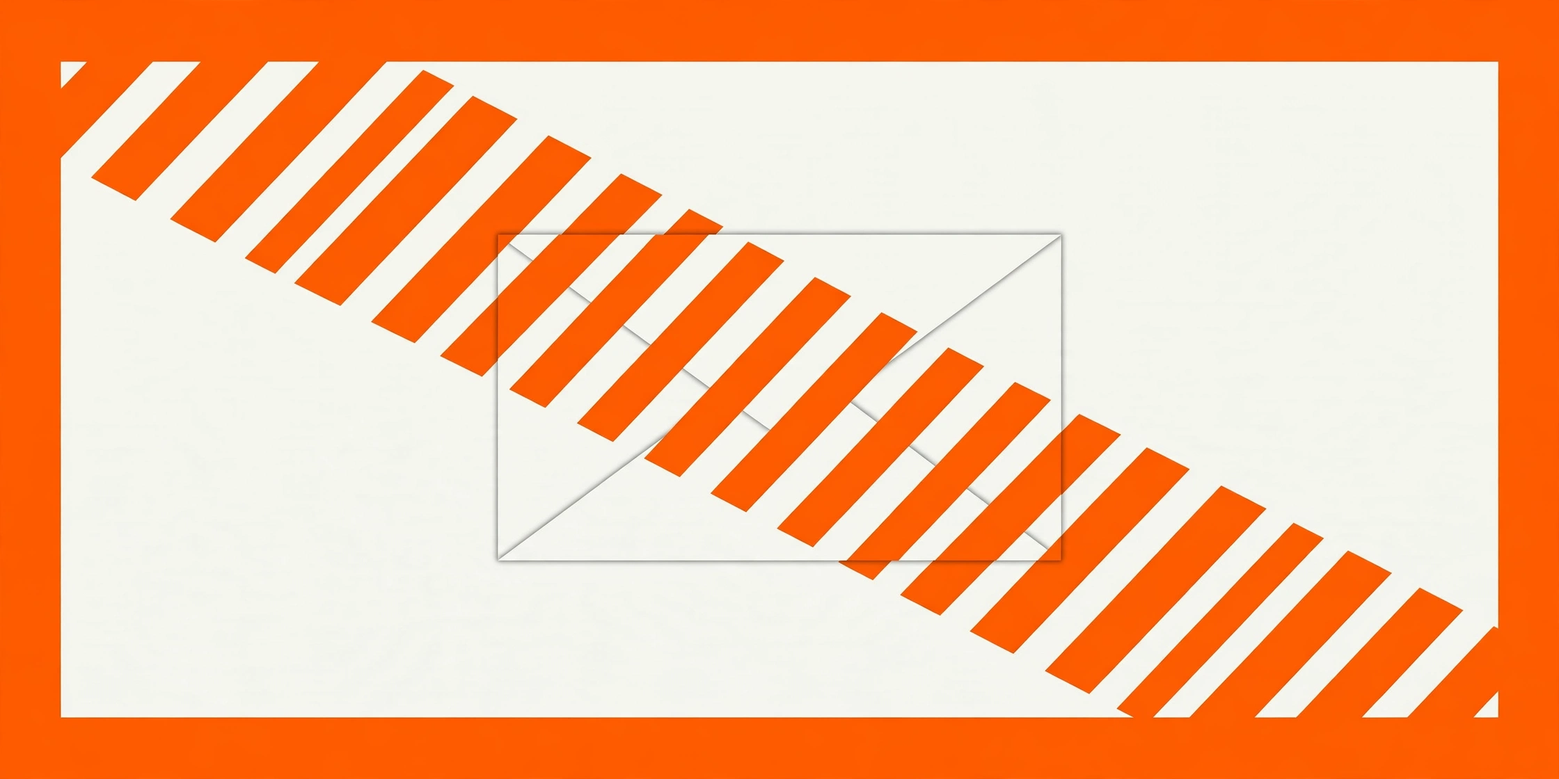
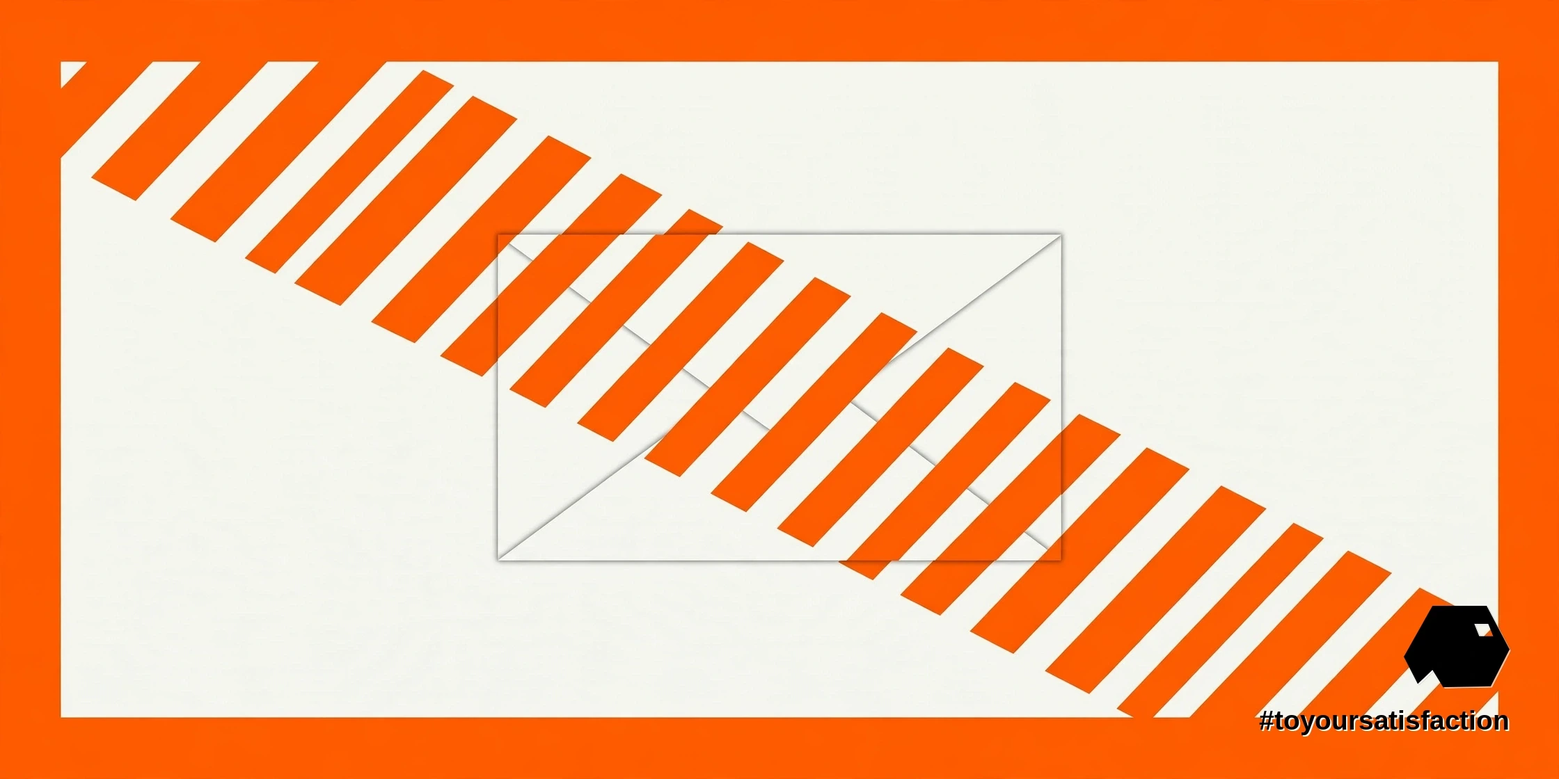
Magazine edition — batch 3

Changed region(s): [[0.8125, 0.7812, 0.9688, 0.9375]]

diff --git a/articles/the-document-is-untrusted-content/index.html b/articles/the-document-is-untrusted-content/index.html
@@ -5,42 +5,82 @@
 <meta name="viewport" content="width=device-width, initial-scale=1">
 <meta http-equiv="Content-Security-Policy" content="default-src 'self'; script-src 'self' 'unsafe-inline'; style-src 'self' 'unsafe-inline'; img-src 'self' data:; connect-src 'self' https://api.mymemory.translated.net; object-src 'none'; base-uri 'self'">
 <title>The Document Is Untrusted Content — Ovia Inc</title>
-<meta name="description" content="At Guidewire Connections 2026, OpenAI's Viyat Bhalodia set out the claims-agent security model (reported October 30–31, 2026): customer-supplied documents are untrusted content, prompt injection will sometimes succeed, and the answer is layered deterministic controls — sandbox, least privilege, expiring credentials, second-agent review.">
+<meta name="description" content="At Guidewire Connections 2026, OpenAI's Viyat Bhalodia set out the claims-agent security model: customer-supplied documents are untrusted content, prompt injection will sometimes succeed, and the answer is layered deterministic controls.">
 <meta property="og:type" content="article">
 <meta property="og:title" content="The Document Is Untrusted Content">
-<meta property="og:description" content="At Guidewire Connections 2026, OpenAI's Viyat Bhalodia set out the claims-agent security model (reported October 30–31, 2026): customer-supplied documents are untrusted content, prompt injection will sometimes succeed, and the answer is layered deterministic controls — sandbox, least privilege, expiring credentials, second-agent review.">
+<meta property="og:description" content="At Guidewire Connections 2026, OpenAI's Viyat Bhalodia set out the claims-agent security model: customer-supplied documents are untrusted content, prompt injection will sometimes succeed, and the answer is layered deterministic controls.">
 <meta property="og:url" content="https://oviainc.github.io/ai-services/articles/the-document-is-untrusted-content/">
 <meta property="og:image" content="https://oviainc.github.io/ai-services/articles/the-document-is-untrusted-content/ovia-inc-the-document-is-untrusted-content-hero.webp">
 <meta name="twitter:card" content="summary_large_image">
 <style>
-  :root{--bg:#0A0E14;--accent:#2E9BD6;--text:#FFFFFF;--muted:#B9C4CE;}
+  :root{--bg:#0A0E14;--panel:#101823;--text:#FFFFFF;--muted:#B9C4CE;--line:#22303E;--accent:#F0742B;}
   *{box-sizing:border-box;margin:0;padding:0;}
-  body{background:var(--bg);color:var(--text);font-family:-apple-system,BlinkMacSystemFont,"Segoe UI",Roboto,Helvetica,Arial,sans-serif;line-height:1.65;}
-  main{max-width:760px;margin:0 auto;padding:32px 20px 48px;}
-  .langbar{display:flex;justify-content:flex-end;align-items:center;gap:10px;margin-bottom:18px;}
-  .langbar label{color:var(--muted);font-size:.85rem;letter-spacing:.08em;text-transform:uppercase;}
-  .langbar select{background:#101823;color:var(--text);border:1px solid #1E2A36;border-radius:8px;padding:6px 10px;font-size:.95rem;max-width:60vw;}
-  .kicker{color:var(--accent);font-size:.85rem;letter-spacing:.18em;text-transform:uppercase;margin-bottom:14px;}
-  h1{font-size:2rem;line-height:1.25;margin-bottom:20px;font-weight:700;}
-  h2{font-size:1.3rem;line-height:1.35;margin:28px 0 12px;font-weight:700;color:var(--accent);}
-  img.hero{width:100%;height:auto;border-radius:10px;display:block;margin-bottom:28px;}
-  p{margin-bottom:16px;color:var(--text);}
-  p.tags{color:var(--accent);font-size:.95rem;}
-  ul.refs{list-style:none;margin-bottom:16px;}
-  ul.refs li{margin-bottom:10px;color:var(--muted);font-size:.95rem;}
+  body{background:var(--bg);color:var(--text);font-family:Georgia,'Times New Roman',Times,serif;line-height:1.6;}
+  a{color:var(--accent);}
+  .sans{font-family:-apple-system,BlinkMacSystemFont,"Segoe UI",Roboto,Helvetica,Arial,sans-serif;}
+  /* masthead zone over the article background image */
+  .mastzone{position:relative;overflow:hidden;border-bottom:1px solid var(--line);}
+  .mast-bg{position:absolute;inset:0;background-size:cover;background-position:center;opacity:.22;}
+  .mast-shade{position:absolute;inset:0;background:linear-gradient(180deg,rgba(10,14,20,.52),rgba(10,14,20,.94));}
+  .mast-inner{position:relative;max-width:1180px;margin:0 auto;padding:24px 22px 42px;}
+  .masthead{display:flex;align-items:center;gap:16px;flex-wrap:wrap;}
+  .masthead a.logo{display:block;line-height:0;}
+  .masthead img.logo{height:46px;width:auto;display:block;}
+  .wordmark{font-family:-apple-system,BlinkMacSystemFont,"Segoe UI",Roboto,Helvetica,Arial,sans-serif;letter-spacing:.34em;font-size:13px;text-transform:uppercase;color:var(--text);}
+  .langbar{display:flex;align-items:center;gap:10px;margin-left:auto;}
+  .langbar label{color:var(--muted);font-size:.8rem;letter-spacing:.08em;text-transform:uppercase;font-family:-apple-system,BlinkMacSystemFont,"Segoe UI",Roboto,Helvetica,Arial,sans-serif;}
+  .langbar select{background:#101823;color:var(--text);border:1px solid var(--line);border-radius:8px;padding:6px 10px;font-size:.95rem;max-width:52vw;}
+  .kicker{color:var(--accent);font-size:.85rem;letter-spacing:.3em;text-transform:uppercase;margin:44px 0 16px;font-family:-apple-system,BlinkMacSystemFont,"Segoe UI",Roboto,Helvetica,Arial,sans-serif;}
+  h1.display{font-family:"Arial Narrow Bold","Franklin Gothic Medium",Impact,Haettenschweiler,"Helvetica Neue Condensed Bold",sans-serif;text-transform:uppercase;font-weight:700;font-size:clamp(2.5rem,6.4vw,4.7rem);line-height:.99;letter-spacing:.004em;max-width:1020px;}
+  .standfirst{font-size:clamp(1.12rem,2.3vw,1.42rem);font-style:italic;color:var(--muted);max-width:780px;line-height:1.5;margin-top:18px;}
+  .byline{font-family:-apple-system,BlinkMacSystemFont,"Segoe UI",Roboto,Helvetica,Arial,sans-serif;font-size:.74rem;letter-spacing:.2em;text-transform:uppercase;color:var(--muted);border-top:1px solid var(--line);margin-top:24px;padding-top:14px;}
+  /* hero */
+  .hero-zone{max-width:1180px;margin:34px auto 0;padding:0 22px;}
+  figure.hero img{width:100%;height:auto;display:block;border-radius:2px;}
+  figcaption{font-family:-apple-system,BlinkMacSystemFont,"Segoe UI",Roboto,Helvetica,Arial,sans-serif;font-size:.78rem;color:var(--muted);padding-top:8px;letter-spacing:.03em;}
+  /* body columns */
+  main{max-width:1180px;margin:0 auto;padding:6px 22px 30px;}
+  .cols{margin-top:30px;font-size:1.16rem;line-height:1.75;}
+  @media (min-width:1020px){.cols{column-count:2;column-gap:54px;}}
+  .cols p{margin:0 0 20px;}
+  .cols p.first::first-letter{font-family:"Arial Narrow Bold","Franklin Gothic Medium",Impact,sans-serif;font-size:5.4rem;line-height:.78;float:left;padding:.55rem .9rem 0 0;color:var(--accent);font-weight:700;}
+  h2.sec{font-family:-apple-system,BlinkMacSystemFont,"Segoe UI",Roboto,Helvetica,Arial,sans-serif;font-size:.88rem;letter-spacing:.26em;text-transform:uppercase;color:var(--accent);margin:36px 0 14px;border-top:2px solid var(--accent);padding-top:14px;break-after:avoid;}
+  h2.sec:first-child{margin-top:0;}
+  blockquote.pull{column-span:all;font-size:clamp(1.55rem,3.6vw,2.35rem);line-height:1.3;font-style:italic;text-align:center;color:var(--accent);margin:42px 0;padding:4px 12px;}
+  figure.body{margin:4px 0 22px;break-inside:avoid;}
+  figure.wide{column-span:all;margin:30px 0 34px;}
+  figure.body img,figure.wide img{width:100%;height:auto;display:block;border-radius:2px;}
+  .keybox{break-inside:avoid;background:var(--panel);border:1px solid var(--line);border-top:3px solid var(--accent);padding:18px 20px 10px;margin:0 0 24px;font-family:-apple-system,BlinkMacSystemFont,"Segoe UI",Roboto,Helvetica,Arial,sans-serif;}
+  .keybox h3{font-size:.78rem;letter-spacing:.24em;text-transform:uppercase;color:var(--accent);margin-bottom:10px;}
+  .keybox li{margin:0 0 9px 18px;font-size:.95rem;line-height:1.5;}
+  /* references + tags + footer */
+  .refs-sec{margin-top:44px;border-top:1px solid var(--line);padding-top:24px;}
+  .refs-sec h2{font-family:-apple-system,BlinkMacSystemFont,"Segoe UI",Roboto,Helvetica,Arial,sans-serif;font-size:.88rem;letter-spacing:.26em;text-transform:uppercase;color:var(--accent);margin-bottom:14px;}
+  ul.refs{list-style:none;}
+  ul.refs li{margin-bottom:10px;color:var(--muted);font-size:.95rem;font-family:-apple-system,BlinkMacSystemFont,"Segoe UI",Roboto,Helvetica,Arial,sans-serif;}
   ul.refs a{color:var(--accent);text-decoration:none;word-break:break-all;}
   ul.refs a:hover{text-decoration:underline;}
-  footer{border-top:1px solid #1E2A36;margin-top:36px;padding-top:20px;font-size:.95rem;color:var(--muted);}
+  p.tags{color:var(--accent);font-size:.95rem;margin-top:26px;font-family:-apple-system,BlinkMacSystemFont,"Segoe UI",Roboto,Helvetica,Arial,sans-serif;}
+  footer{border-top:1px solid var(--line);margin-top:38px;padding:22px 0 10px;font-size:.95rem;color:var(--muted);font-family:-apple-system,BlinkMacSystemFont,"Segoe UI",Roboto,Helvetica,Arial,sans-serif;}
+  footer .frow{display:flex;align-items:center;gap:14px;flex-wrap:wrap;}
+  footer img.flogo{height:30px;width:auto;display:block;}
   footer a{color:var(--accent);text-decoration:none;}
   footer a:hover{text-decoration:underline;}
-  @media (max-width:600px){h1{font-size:1.55rem;}main{padding:22px 16px 36px;}}
+  footer .ftag{color:var(--text);letter-spacing:.06em;}
+  @media (max-width:640px){.mast-inner{padding:18px 16px 30px;}main,.hero-zone{padding-left:16px;padding-right:16px;}h1.display{font-size:2.35rem;}.cols{font-size:1.08rem;}}
 </style>
 </head>
 <body>
-<main>
-<div class="langbar">
-          <label for="langPick" data-tr>Language</label>
-          <select id="langPick" aria-label="Choose your language">
+<header class="mastzone">
+  <div class="mast-bg" style="background-image:url('ovia-inc-the-document-is-untrusted-content-background.webp')"></div>
+  <div class="mast-shade"></div>
+  <div class="mast-inner">
+    <div class="masthead">
+      <a class="logo" href="../../" aria-label="Ovia Inc — home"><img class="logo" src="../../assets/ovia-inc-logo-white.webp" alt="Ovia Inc — logo"></a>
+      <span class="wordmark">Ovia Inc — Magazine</span>
+      <div class="langbar">
+        <label for="langPick" data-tr>Language</label>
+        <select id="langPick" aria-label="Choose your language">
             <option value="en">English</option>
             <option value="fr">Français</option>
             <option value="es">Español</option>
@@ -118,28 +158,77 @@
             <option value="lo">ລາວ</option>
             <option value="mn">Монгол</option>
           </select>
-        </div>
-  <p class="kicker" data-tr>Ovia Inc — Articles</p>
-  <h1 data-tr>The Document Is Untrusted Content</h1>
-  <img class="hero" src="ovia-inc-the-document-is-untrusted-content-hero.webp" alt="Ovia Inc — A plain bone-white envelope crossed by one bold diagonal band of hazard-orange stripes inside a heavy orange frame, in stark Swiss poster style">
-  <h2 data-tr>The session</h2>
-  <p data-tr>At Guidewire Connections 2026 in Las Vegas, Viyat Bhalodia — a member of technical staff at OpenAI who leads security work for agentic products — spoke with Ben Chang, a Guidewire engineering vice-president, about putting claims agents into production. The exchange was reported on October 30, 2026 by Insurance Innovation Reporter and summarised on October 31 by Pivot News. The framing case is ordinary and uncomfortable: a claims agent reads a police report, medical records or a repair estimate supplied by a customer, and somewhere inside the document sits a hidden instruction, written for the agent rather than for any human reader.</p>
-  <h2 data-tr>The lethal trifecta</h2>
-  <p data-tr>The session named the dangerous combination directly: sensitive data, untrusted content and external network access — a trio described as the lethal trifecta. Claims handling assembles all three by default. The files are sensitive by nature; the documents arrive from outside the company's control; and a useful agent needs to reach systems beyond its own sandbox to do the job. Any one element alone is manageable. Together, the three form the path an injected instruction needs: read the secret, obey the stranger, send the result somewhere. The closing assignment for attendees was an audit — find every agent in the building where the three already meet.</p>
-  <h2 data-tr>Design for the failure</h2>
-  <p data-tr>The premise underneath the controls deserves emphasis: assume prompt injection sometimes succeeds. Models are trained to resist injected instructions, and the resistance keeps improving — and the professional posture, as presented in the session, is to refuse to rest the whole defence on that single layer of software. A model that can be talked into an action must be surrounded by machinery that decides what actions exist at all. Security moves from persuading the model to behave, toward bounding what misbehaviour could accomplish on the worst day.</p>
-  <h2 data-tr>The layered controls</h2>
-  <p data-tr>The controls named are deterministic, and deliberately unglamorous. A sandbox limits which files an agent can open and which network destinations an agent can reach. Least privilege grants access to what the task needs and nothing beyond that access, with credentials that expire instead of the long-lived keys common in existing infrastructure. And an auto-review pattern puts a second agent on duty: proposed actions are evaluated against the user's actual request and the task context, so an instruction smuggled inside an untrusted file — send these documents to a third party, say — gets flagged against the job the agent was genuinely given. Layered, the controls fail independently; an attacker must defeat all of them, in sequence, inside one session.</p>
-  <h2 data-tr>What to watch</h2>
-  <p data-tr>Cybersecurity for agents is becoming a design discipline rather than a review step, and the trifecta gives teams a shared vocabulary for the audit. The pattern matches the standing practice at Ovia: context engineering decides what enters an agent's world, and the security model decides what an agent can touch once inside — least privilege, short-lived credentials, sandboxed tools, observable state. Watch for the trifecta audit becoming a standard gate before production launches, and for second-agent review moving from a named technique into default platform behaviour.</p>
-  <p data-tr>The pattern also reframes procurement. Buyers evaluating a claims agent, a support agent or any agent that reads outside material now have three plain questions to ask any vendor: where does untrusted content enter, what can the agent reach while holding sensitive data, and which deterministic control breaks the chain when an instruction slips through? Vendors with layered answers — sandbox boundaries, expiring credentials, independent review of proposed actions — are describing architecture. Vendors with only model-behaviour answers are describing hope, and the session's whole point is that hope is not a control.</p>
-  <h2 data-tr>References</h2>
-  <ul class="refs">
-    <li><span data-tr>Pivot News — “Layered controls keep claims agents contained”, October 31, 2026 (summary of the Insurance Innovation Reporter report of October 30, 2026):</span> <a href="https://pivotnews.ai/insurance/layered-controls-keep-claims-agents-contained-openai">https://pivotnews.ai/insurance/layered-controls-keep-claims-agents-contained-openai</a></li>
-  </ul>
+      </div>
+    </div>
+    <p class="kicker" data-tr>Ovia Inc — Cybersecurity · Agent security</p>
+    <h1 class="display" data-tr>The Document Is Untrusted Content</h1>
+    <p class="standfirst" data-tr>A claims agent reads whatever a customer sends. The Guidewire Connections session treats every page as a possible instruction, and builds the defence in layers that fail independently.</p>
+    <p class="byline" data-tr>Ovia Inc · Studio and Lab · 6 min read</p>
+  </div>
+</header>
+<div class="hero-zone">
+  <figure class="hero">
+    <img src="ovia-inc-the-document-is-untrusted-content-hero.webp" alt="Ovia Inc — A plain bone-white envelope crossed by one bold diagonal band of hazard-orange stripes inside a heavy orange frame, in stark Swiss poster style">
+    <figcaption data-tr>The envelope as threat model: bone white, hazard orange, nothing trusted by default. Image: Ovia Inc</figcaption>
+  </figure>
+</div>
+<main>
+  <div class="cols">
+    <p class="first" data-tr>Every document an agent reads is a message from a stranger. A police report, a medical record, a repair estimate: each one arrives from outside the building, written by hands the company does not control, and each one can carry a second text hidden inside the first — an instruction addressed to the agent rather than to any human reader. The security model presented at Guidewire Connections 2026 starts from that plain fact and refuses to soften the wording: the document is untrusted content.</p>
+    <p data-tr>The setting matters because claims work is ordinary work. Nothing about the scenario requires an exotic attacker or a futuristic system. A working claims agent, doing exactly the job a carrier asked for, opens files that customers supplied — and the session reported from Las Vegas argues that the industry should design for the day one of those files talks back.</p>
+    <aside class="keybox">
+      <h3 data-tr>Key points</h3>
+      <ul>
+        <li data-tr>Customer-supplied documents are untrusted content, however routine the claim.</li>
+        <li data-tr>Sensitive data, untrusted content and external network access form the lethal trifecta.</li>
+        <li data-tr>Prompt injection will sometimes succeed; design assumes the failure instead of denying it.</li>
+        <li data-tr>Sandbox, least privilege, expiring credentials and second-agent review fail independently, in layers.</li>
+      </ul>
+    </aside>
+    <h2 class="sec" data-tr>01 · The session</h2>
+    <p data-tr>At Guidewire Connections 2026 in Las Vegas, Viyat Bhalodia — a member of technical staff at OpenAI who leads security work for agentic products — spoke with Ben Chang, a Guidewire engineering vice-president, about putting claims agents into production. The exchange was reported on October 30, 2026 by Insurance Innovation Reporter and summarised on October 31 by Pivot News. The framing case is ordinary and uncomfortable: a claims agent reads a police report, medical records or a repair estimate supplied by a customer, and somewhere inside the document sits a hidden instruction, written for the agent rather than for any human reader.</p>
+    <figure class="body">
+      <img src="ovia-inc-the-document-is-untrusted-content-body-1.webp" alt="Ovia Inc — A stack of blank bone-white paper sheets crossed by a hazard-orange diagonal band on a dark desk">
+      <figcaption data-tr>The claim file as an object: blank pages to a human reader, a possible instruction set to an agent. Image: Ovia Inc</figcaption>
+    </figure>
+    <h2 class="sec" data-tr>02 · The lethal trifecta</h2>
+    <p data-tr>The session named the dangerous combination directly: sensitive data, untrusted content and external network access — a trio described as the lethal trifecta. Claims handling assembles all three by default. The files are sensitive by nature; the documents arrive from outside the company's control; and a useful agent needs to reach systems beyond its own sandbox to do the job. Any one element alone is manageable. Together, the three form the path an injected instruction needs: read the secret, obey the stranger, send the result somewhere.</p>
+    <p data-tr>The closing assignment for attendees was an audit — find every agent in the building where the three already meet. The audit is worth doing precisely because the trifecta rarely announces itself. Each element looks innocent in isolation: a file store here, a document reader there, a network call added to make the agent useful. Risk lives in the combination, and combinations are exactly what architecture reviews tend to miss.</p>
+    <blockquote class="pull" data-tr>Together, the three form the path an injected instruction needs: read the secret, obey the stranger, send the result somewhere.</blockquote>
+    <h2 class="sec" data-tr>03 · Design for the failure</h2>
+    <p data-tr>The premise underneath the controls deserves emphasis: assume prompt injection sometimes succeeds. Models are trained to resist injected instructions, and the resistance keeps improving — and the professional posture, as presented in the session, is to refuse to rest the whole defence on that single layer of software. A model that can be talked into an action must be surrounded by machinery that decides what actions exist at all. Security moves from persuading the model to behave, toward bounding what misbehaviour could accomplish on the worst day.</p>
+    <p data-tr>Designing for failure is an old engineering habit arriving in a new field. Bridges assume loads beyond the forecast; aircraft assume an engine quits; and agent systems, under this model, assume a persuasive paragraph lands exactly where the model can read it. The shift sounds pessimistic and is actually liberating: once failure is admitted, engineering can start, because controls can be tested against a stated threat instead of against optimism.</p>
+    <figure class="wide">
+      <img src="ovia-inc-the-document-is-untrusted-content-body-2.webp" alt="Ovia Inc — Nested bone-white and hazard-orange rectangular frames around a small locked steel box on charcoal">
+      <figcaption data-tr>Layers around the asset: each frame a separate control, each control failing on its own terms. Image: Ovia Inc</figcaption>
+    </figure>
+    <h2 class="sec" data-tr>04 · The layered controls</h2>
+    <p data-tr>The controls named are deterministic, and deliberately unglamorous. A sandbox limits which files an agent can open and which network destinations an agent can reach. Least privilege grants access to what the task needs and nothing beyond that access, with credentials that expire instead of the long-lived keys common in existing infrastructure. And an auto-review pattern puts a second agent on duty: proposed actions are evaluated against the user's actual request and the task context, so an instruction smuggled inside an untrusted file — send these documents to a third party, say — gets flagged against the job the agent was genuinely given. Layered, the controls fail independently; an attacker must defeat all of them, in sequence, inside one session.</p>
+    <p data-tr>Each layer also answers a different question, which is why the layering holds. The sandbox answers where an agent may go. Least privilege answers what an agent may hold. Expiring credentials answer how long a stolen key stays useful. The reviewing agent answers whether a proposed action matches the job a person actually requested. A control that answers one question cleanly can be audited, replaced and improved without disturbing the others.</p>
+    <figure class="body">
+      <img src="ovia-inc-the-document-is-untrusted-content-body-3.webp" alt="Ovia Inc — A magnifying glass over a blank bone-white sheet marked with a hazard-orange diagonal stripe">
+      <figcaption data-tr>The second look: review as a physical act, one document and one instruction at a time. Image: Ovia Inc</figcaption>
+    </figure>
+    <h2 class="sec" data-tr>05 · What to watch</h2>
+    <p data-tr>Cybersecurity for agents is becoming a design discipline rather than a review step, and the trifecta gives teams a shared vocabulary for the audit. The pattern matches the standing practice at Ovia: context engineering decides what enters an agent's world, and the security model decides what an agent can touch once inside — least privilege, short-lived credentials, sandboxed tools, observable state. Watch for the trifecta audit becoming a standard gate before production launches, and for second-agent review moving from a named technique into default platform behaviour.</p>
+    <p data-tr>The pattern also reframes procurement. Buyers evaluating a claims agent, a support agent or any agent that reads outside material now have three plain questions to ask any vendor: where does untrusted content enter, what can the agent reach while holding sensitive data, and which deterministic control breaks the chain when an instruction slips through? Vendors with layered answers — sandbox boundaries, expiring credentials, independent review of proposed actions — are describing architecture. Vendors with only model-behaviour answers are describing hope, and the session's whole point is that hope is not a control.</p>
+    <p data-tr>The honest caveats belong on the record. Layered controls cost latency, engineering time and operational attention, and a second reviewing agent adds a second system to secure. None of that argues against the model; the argument runs the other way. Documents will keep arriving from strangers, agents will keep reading them, and the teams that treat every page as untrusted content — politely, structurally, by default — are the teams whose agents can be trusted with the next document, and the one after that.</p>
+
+  </div>
+  <div class="refs-sec">
+    <h2 data-tr>References</h2>
+    <ul class="refs">
+      <li><span data-tr>Pivot News — “Layered controls keep claims agents contained”, October 31, 2026 (summary of the Insurance Innovation Reporter report of October 30, 2026):</span> <a href="https://pivotnews.ai/insurance/layered-controls-keep-claims-agents-contained-openai">https://pivotnews.ai/insurance/layered-controls-keep-claims-agents-contained-openai</a></li>
+
+    </ul>
+  </div>
   <p class="tags">#Cybersecurity #AIAgents #PromptInjection #toyoursatisfaction</p>
   <footer>
-    <p><a href="../../">Ovia Inc</a> · Source on GitHub: <a href="https://github.com/Oviainc/ai-services">github.com/Oviainc/ai-services</a></p>
+    <div class="frow">
+      <a href="../../" aria-label="Ovia Inc — home"><img class="flogo" src="../../assets/ovia-inc-logo-white.webp" alt="Ovia Inc — logo"></a>
+      <span><a href="../../">Ovia Inc</a> · <span data-tr>Source on GitHub:</span> <a href="https://github.com/Oviainc/ai-services">github.com/Oviainc/ai-services</a></span>
+      <span class="ftag">#toyoursatisfaction</span>
+    </div>
   </footer>
 </main>
 <script>
